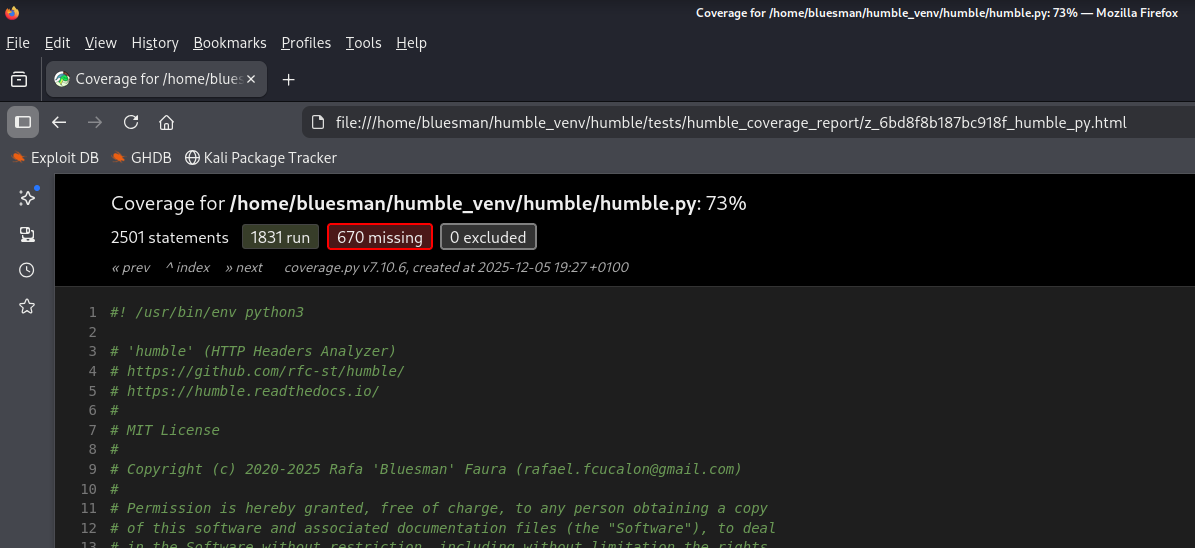
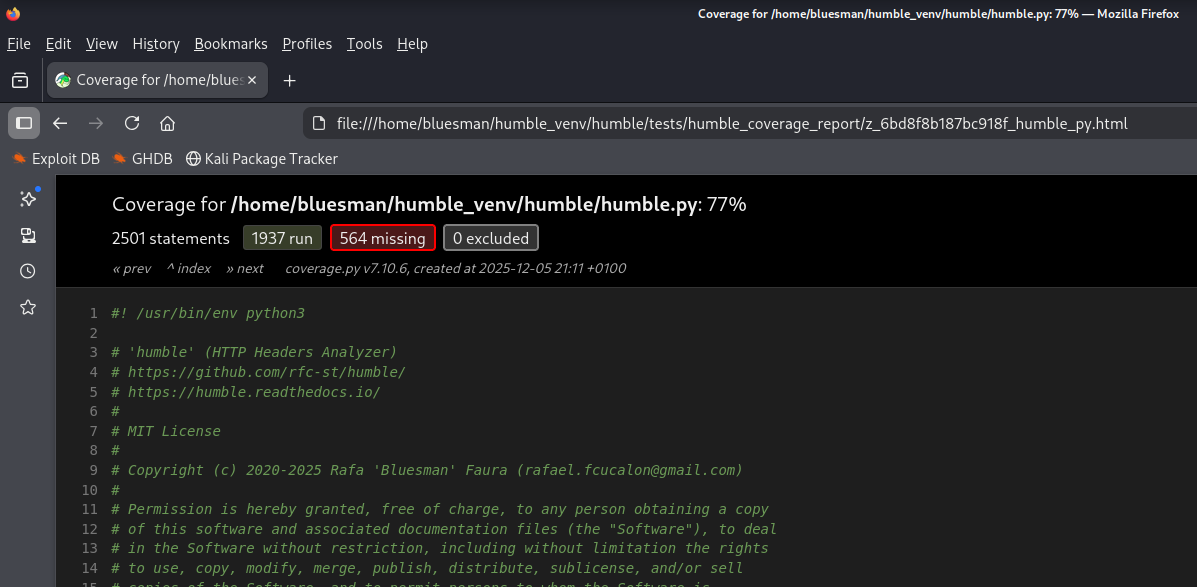
Feature: 1 new unit test

Changed region(s): [[0.0, 0.062, 1.0, 1.0], [0.5883, 0.0, 0.9908, 0.031], [0.0, 0.0, 0.031, 0.031]]

diff --git a/tests/test_basic.py b/tests/test_basic.py
@@ -10,7 +10,7 @@ from os import listdir, path, remove
 from argparse import ArgumentParser, RawDescriptionHelpFormatter
 
 HUMBLE_TESTS_DIR = path.dirname(__file__)
-HUMBLE_TEMP_FILE = path.join(HUMBLE_TESTS_DIR, 'analysis_h.txt')
+HUMBLE_TEMP_HISTORY = path.join(HUMBLE_TESTS_DIR, 'analysis_h.txt')
 HUMBLE_TEMP_PREFIX = 'humble_'
 PYTEST_CACHE_DIRS = [
     path.join(HUMBLE_TESTS_DIR, d)
@@ -49,6 +49,7 @@ TEST_CFGS = {
     'test_export_xml': (['-u', TEST_URL, '-o', 'xml'], 'XML saved'),
     'test_fingerprint_groups': (['-f'], 'Top 20 groups'),
     'test_fingerprint_term': (['-f', 'Google'], 'Headers related to'),
+    'test_global_statistics': (['-a'], 'Empty headers'),
     'test_input_file': (['-if', HUMBLE_INPUT_FILE, '-u', HUMBLE_INPUT_URL],
                         'Input:'),
     'test_l10n_analysis': (['-u', TEST_URL, '-l', 'es'],
@@ -83,8 +84,8 @@ TEST_SUMMS = ('[test_help]', '[test_brief_analysis]', '[test_cicd_analysis]',
               '[test_export_json_brief]', '[test_export_pdf]',
               '[test_export_xlsx]', '[test_export_xml]',
               '[test_fingerprint_groups]', '[test_fingerprint_term]',
-              '[test_input_file]', '[test_l10n_analysis]',
-              '[test_l10n_grades]', '[test_license]',
+              '[test_global_statistics]', '[test_input_file]',
+              '[test_l10n_analysis]', '[test_l10n_grades]', '[test_license]',
               '[test_owasp_compliance]', '[test_perm_header]',
               '[test_redirects]', '[test_requests_headers]',
               '[test_response_headers]', '[test_russian_block]',
@@ -97,17 +98,6 @@ TEST_SUMMS = ('[test_help]', '[test_brief_analysis]', '[test_cicd_analysis]',
 class _Args:
     URL = INPUT_FILE_URL
     lang = None
-
-
-@pytest.fixture(scope="session", autouse=True)
-def delete_prior_temps():
-    """
-    Delete the previous analysis history file, analysis_h.txt, if it exists
-    """
-    if path.isfile(HUMBLE_TEMP_FILE):
-        with contextlib.suppress(Exception):
-            remove(HUMBLE_TEMP_FILE)
-    yield
 
 
 def get_detail(id_mode, replace=False):
@@ -209,22 +199,6 @@ def test_python_version():
         )
 
 
-def delete_humble_analysis(file_path):
-    """
-    Deletes analysis history file, analysis_h.txt, after all tests have been
-    run
-    """
-    msgs = []
-    if path.isfile(file_path):
-        try:
-            remove(file_path)
-            msgs.append((get_detail('[test_temp]', replace=True), file_path))
-        except Exception as e:
-            msgs.append((get_detail('[test_ftemp]', replace=True),
-                         f"({type(e).__name__}) {file_path}"))
-    return msgs
-
-
 def delete_export_files(extension, ok_msg, ko_msg):
     """
     Delete all files associated with export tests
@@ -292,7 +266,6 @@ def set_temp_content(current_time):
         ('.xlsx', '[test_xlsx]', '[test_fxlsx]'),
         ('.xml', '[test_xml]', '[test_fxml]'),
     ]
-    info_msgs.extend(delete_humble_analysis(HUMBLE_TEMP_FILE))
     for extension, ok_msg, ko_msg in delete_extensions:
         info_msgs.extend(delete_export_files(extension, ok_msg, ko_msg))
     for cache_dir in PYTEST_CACHE_DIRS:

diff --git a/README.md b/README.md
@@ -23,7 +23,7 @@
 <a target="_blank" href="https://github.com/rfc-st/humble/actions/workflows/bandit-security-scan.yml" title="Results of the last analysis of this tool with bandit, for critical or high vulnerabilities"><img src="https://github.com/rfc-st/humble/actions/workflows/bandit-security-scan.yml/badge.svg"></a>
 <a target="_blank" href="https://github.com/rfc-st/humble/actions/workflows/codeql-analysis.yml?query=workflow%3ACodeQL" title="CodeQL security analysis passed"><img src="https://github.com/rfc-st/humble/workflows/CodeQL/badge.svg"></a>
 <a target="_blank" href="https://humble.readthedocs.io/en/latest/" title="humble documentation status"><img src="https://img.shields.io/badge/documentation-passing-32bd50?labelColor=343b41"></a>
-<a target="_blank" href="https://github.com/rfc-st/humble/?tab=readme-ov-file#unit-tests" title="humble code coverage"><img src="https://img.shields.io/badge/code%20coverage-73%25-f9d71c?labelColor=343b41"></a>
+<a target="_blank" href="https://github.com/rfc-st/humble/?tab=readme-ov-file#unit-tests" title="humble code coverage"><img src="https://img.shields.io/badge/code%20coverage-77%25-f9d71c?labelColor=343b41"></a>
 <a target="_blank" href="https://www.bestpractices.dev/projects/9543" title="OpenSSF best practices analysis"><img src="https://www.bestpractices.dev/projects/9543/badge"></a>
 <br />
 <br />
@@ -451,7 +451,7 @@ Open the index.html file in a browser.
 <img src="https://github.com/rfc-st/humble/blob/master/screenshots/humble_code_coverage.PNG" alt="(Linux) - Code coverage">
 
 > [!NOTE]
-> After reviewing the code coverage, you can delete all files and folders from the *tests* directory except for the *.coveragerc*, *headers_test_file.txt* and *test_basic.py* files.
+> After reviewing the code coverage, you can delete all files and folders from the *tests* directory except for the *.coveragerc*, *analysis_h.txt*, *headers_test_file.txt* and *test_basic.py* files: if these files are deleted, the tests will fail.
 
 > [!TIP]
 > <a target="_blank" href="https://docs.pytest.org/en/stable/reference/reference.html">pytest</a> and <a target="_blank" href="https://pytest-cov.readthedocs.io/en/latest/config.html">pytest-cov</a> parameters:
